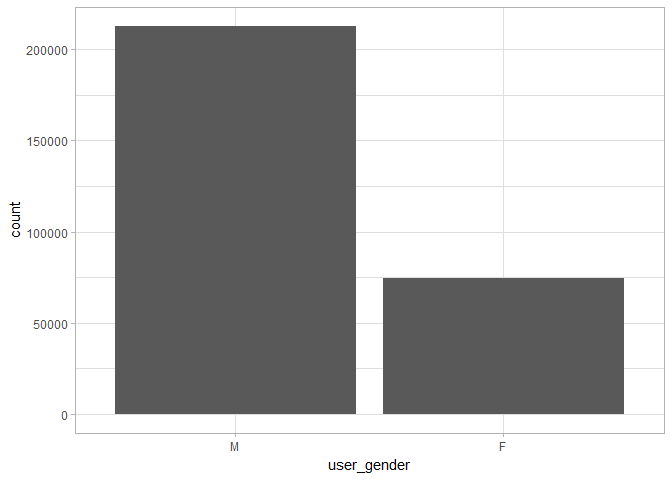
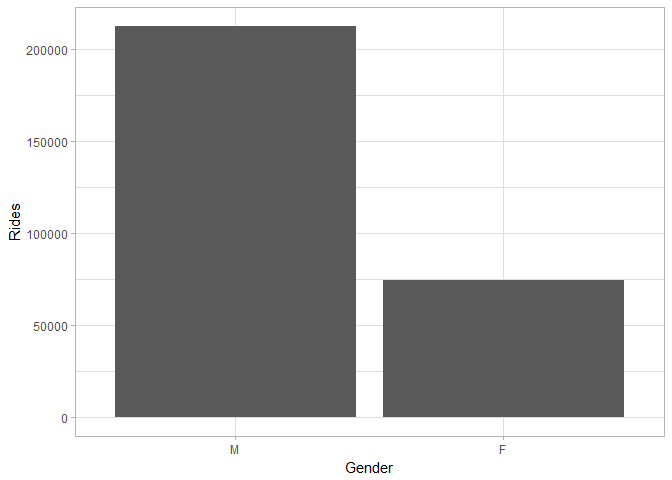
.

diff --git a/README.md b/README.md
@@ -67,10 +67,14 @@ The file [**eda.R**](R%20scripts/eda.R) contains the script used for the
 Exploratory Data Analysis, including the codes for the data
 visualization below.
 
-### User rides
+### User Gender
 
 <img src="README_files/figure-markdown_strict/unnamed-chunk-5-1.png" width="70%" />
 
 ### User birthdate
 
 <img src="README_files/figure-markdown_strict/unnamed-chunk-6-1.png" width="70%" />
+
+### Station of Departure
+
+<img src="README_files/figure-markdown_strict/unnamed-chunk-7-1.png" width="70%" />
